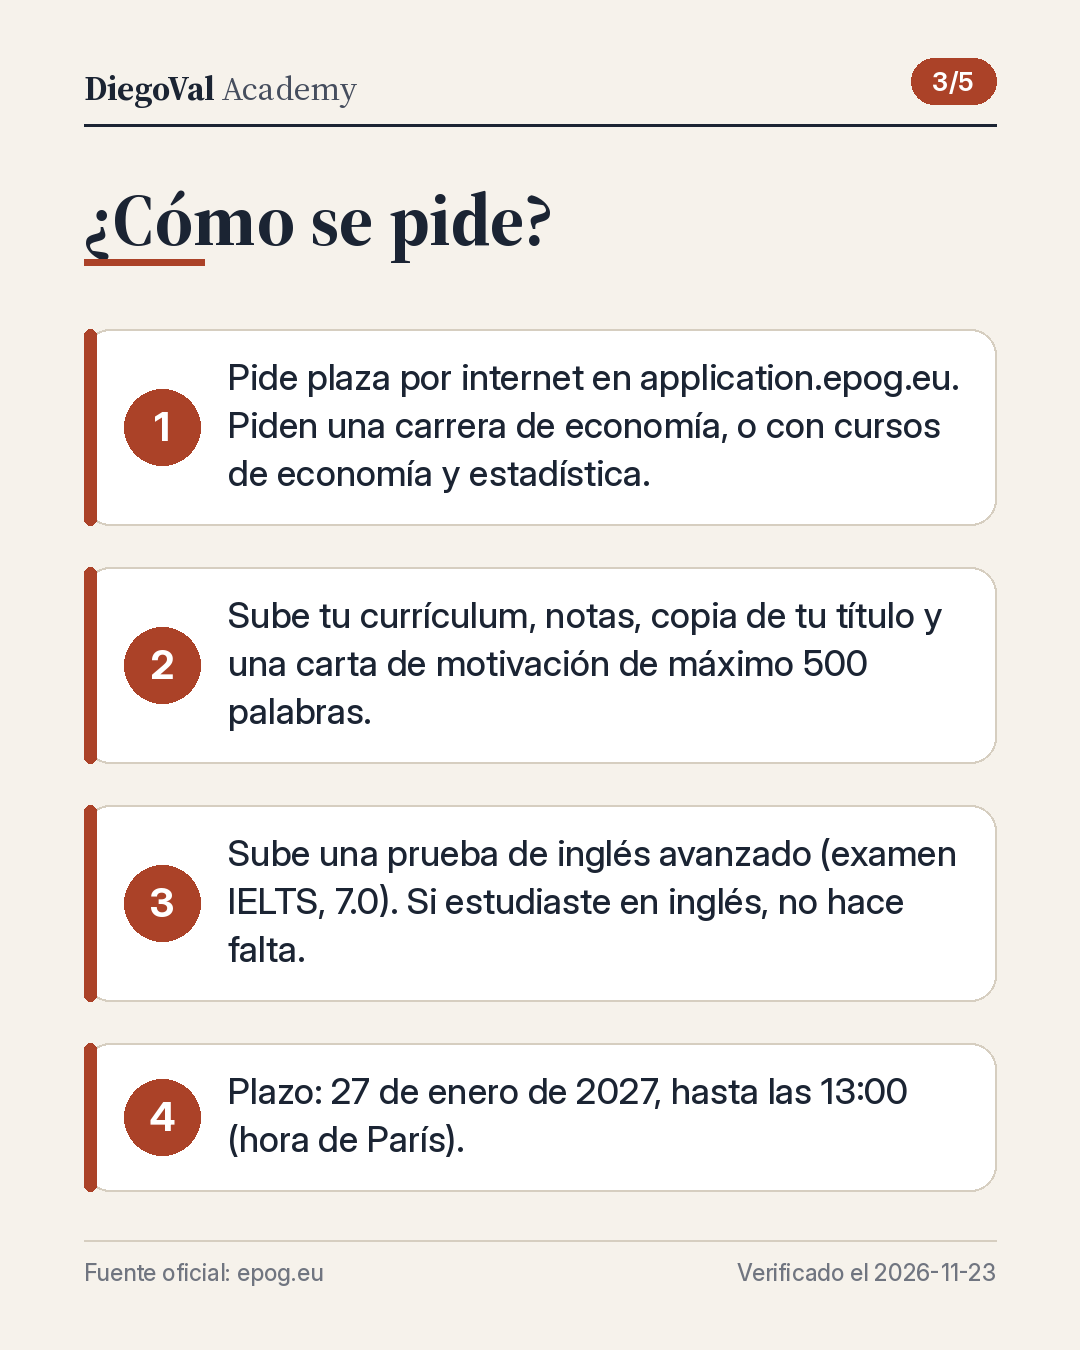
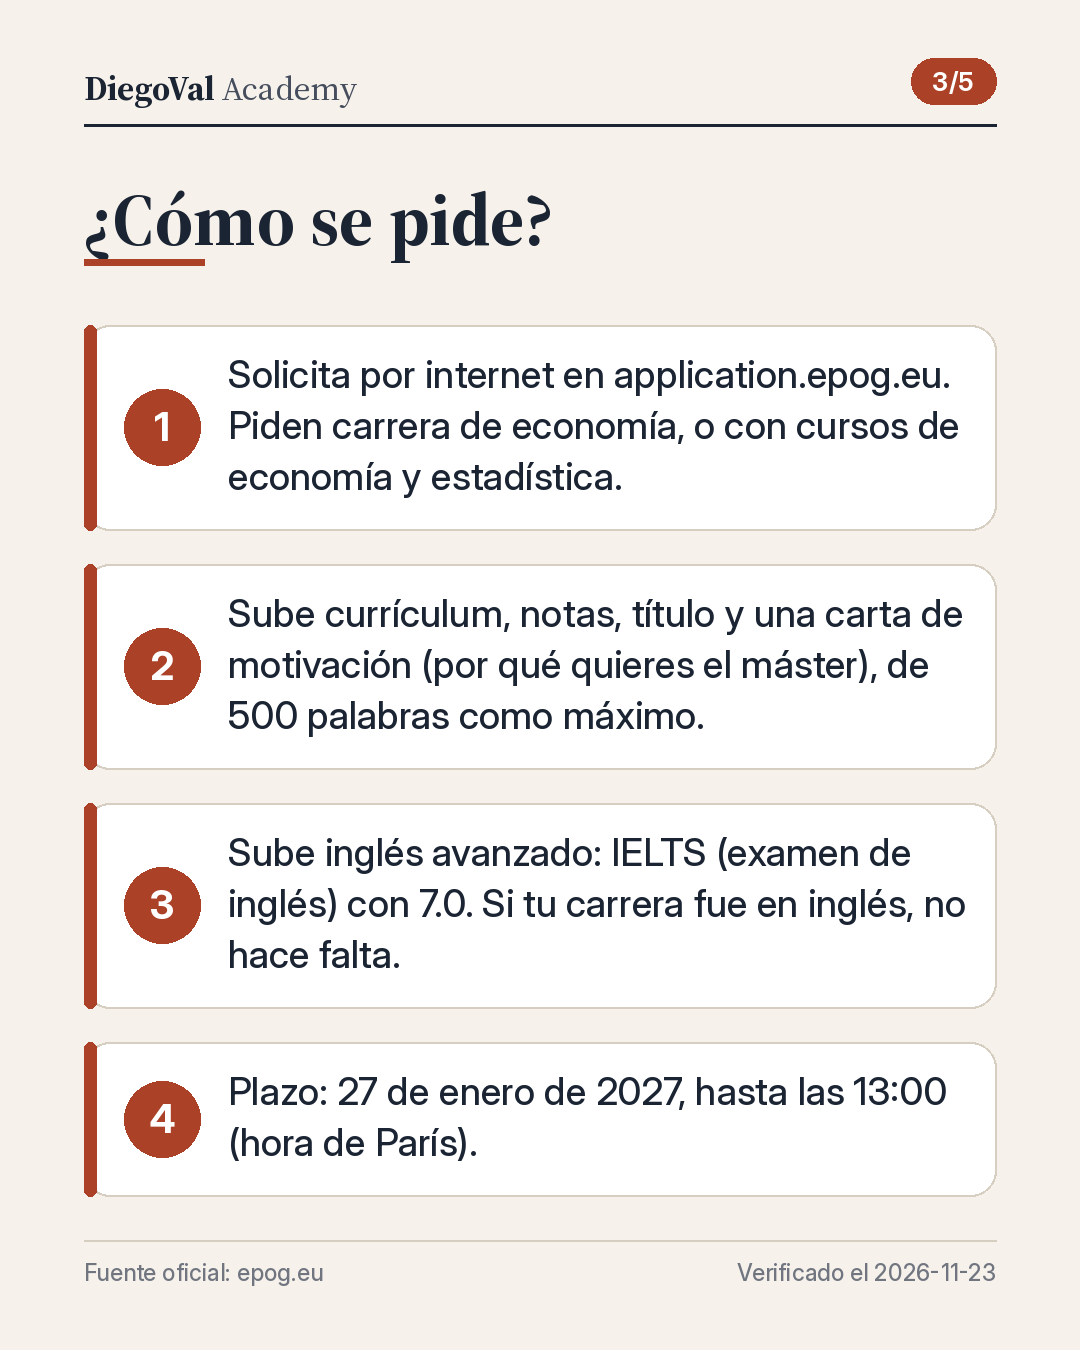
2026-11-23_lunes_beca-epog-economia: preparada
Claude-Session: https://claude.ai/code/session_01HRCw39UzfmQehG21MTaMm1

diff --git a/posts/2026-11-23_lunes_beca-epog-economia/caption.md b/posts/2026-11-23_lunes_beca-epog-economia/caption.md
@@ -1,22 +1,21 @@
-¿Quieres un máster de economía en Europa con beca? 🌍 Hay uno de dos años, abierto ahora.
+¿Quieres un máster de economía en Europa con beca? 🌍 Hay uno de dos años, con plazo abierto.
 
 En corto:
-• Qué es: EPOG, un máster Erasmus Mundus (programa de la Unión Europea para estudiar en varios países) en economía. Lo dan universidades de Francia, Italia, Alemania y otros países.
-• Beca: 1 400 euros al mes durante los dos años, más matrícula y seguro médico. La web no detalla viaje ni visado: pregunta al programa.
-• Quién: carrera de economía, o de otra área con cursos de economía y estadística, e inglés avanzado (por ejemplo, el examen IELTS con 7.0). La web no limita la nacionalidad. No pueden pedir la beca quienes ya tuvieron otra beca de máster Erasmus Mundus.
+• Qué es: se llama EPOG (así se llama el máster). Es un máster Erasmus Mundus (programa de la Unión Europea) de economía. Año 1 en una o dos universidades socias; año 2 en París.
+• Beca: 1 400 euros al mes durante los dos años, y paga la matrícula (lo que cuesta estudiar) y el seguro médico. La web no detalla viaje ni visado: pregunta al programa.
+• Quién: carrera de economía, o con cursos de economía y estadística, y inglés avanzado (por ejemplo, IELTS (examen de inglés) con 7.0). La web no limita la nacionalidad. No pueden pedirla quienes ya tuvieron una beca de máster Erasmus Mundus.
 • Plazo: 27 de enero de 2027, a las 13:00 (hora de París).
 
-Por qué es conocida: lleva la etiqueta Erasmus Mundus, un programa de la Unión Europea, y la Comisión Europea lo presenta como máster conjunto para estudiantes de todo el mundo.
+Por qué es conocida: apoyada por la Unión Europea, con 11 universidades socias.
 
-Lo que pocos explican: piden dos cartas de recomendación de profesores o jefes, y tardan en llegar. Pídelas ya.
+Lo que pocos explican: piden dos cartas de recomendación (un profesor o jefe cuenta cómo eres). Tardan en llegar: pídelas ya.
 
 Cómo empezar:
-1. Lee los requisitos en la web oficial (en inglés).
+1. Lee los requisitos en la web oficial.
 2. Pide las cartas y prepara currículum, notas, título y carta de motivación.
 3. Solicita por internet antes del 27 de enero.
 
 Oficial: https://www.epog.eu/admission-and-scholarships/admission/
-Beca: https://www.epog.eu/admission-and-scholarships/scholarships/
 
 Verificado el: 2026-11-23
 

diff --git a/posts/2026-11-23_lunes_beca-epog-economia/validation.md b/posts/2026-11-23_lunes_beca-epog-economia/validation.md
@@ -1,0 +1,29 @@
+# Validación — 2026-11-23_lunes_beca-epog-economia
+
+Ejecutado: 2026-11-23T07:11:37+01:00
+Decisión: **APROBADA para publicar**
+
+| Estado | Comprobación | Detalle |
+|---|---|---|
+| PASS | Archivos obligatorios | imagen: post.json, post.png, caption.md, sources.md, metadata.json |
+| PASS | Metadatos | campos obligatorios presentes |
+| PASS | Imagen | 1080x1350 PNG, 1 archivo (+5 diapositivas de carrusel, ignoradas) |
+| PASS | Canal Buffer | DiegoVal Academy (6ae0bdf22f1f5ed648eb92f9) |
+| PASS | Verificación del día | 2026-11-23 |
+| PASS | Longitud del texto | 1268/1300 caracteres |
+| PASS | Fecha visible en el texto | Verificado el: 2026-11-23 |
+| PASS | Marcadores pendientes | ninguno |
+| PASS | Enlaces documentados en sources.md | 1 enlaces |
+| PASS | Enlace principal en el texto | https://www.epog.eu/admission-and-scholarships/admission/ |
+| PASS | Lo que pocos explican | presente en imagen y texto |
+| PASS | Sin URLs en la imagen | sólo dominio de la fuente |
+| PASS | Lenguaje sencillo: siglas (texto) | todas explicadas o ninguna |
+| PASS | Lenguaje sencillo: palabras difíciles (texto) | sin burocracia ni calcos detectados |
+| PASS | Lenguaje sencillo: siglas (imagen) | todas explicadas o ninguna |
+| PASS | Lenguaje sencillo: palabras difíciles (imagen) | sin burocracia ni calcos detectados |
+| PASS | Lenguaje sencillo: frases largas | todas ≤ 32 palabras |
+| PASS | Lenguaje sencillo: revisión del verificador | respuesta 'sí' de verificador-convocatorias (subagente Sonnet), 2026-11-23, 2.ª revisión (la 1.ª fue «no»; se corrigieron siglas, términos y respaldo de fuentes) |
+| PASS | Evidencia de popularidad | 2 señales documentadas |
+| PASS | Plazo | 2027-01-27T13:00:00+01:00 (quedan 65 días) |
+| PASS | Duplicados | sin repeticiones en 34 filas de todas las plataformas (URL canónica, topic_key y vídeo; mismo día en otra red permitido) |
+| PASS | Enlace accesible | 200 https://www.epog.eu/admission-and-scholarships/admission/ |

diff --git a/posts/2026-11-23_lunes_beca-epog-economia/validation_instagram.md b/posts/2026-11-23_lunes_beca-epog-economia/validation_instagram.md
@@ -1,0 +1,24 @@
+# Validación Instagram — 2026-11-23_lunes_beca-epog-economia
+
+Ejecutado: 2026-11-23T07:11:37+01:00
+Decisión: **APROBADA para publicar**
+
+| Estado | Comprobación | Detalle |
+|---|---|---|
+| PASS | Archivos obligatorios | 5 imágenes + caption + carousel.json |
+| PASS | Base verificada (LinkedIn) | validation.md APROBADA: mismos datos y fuentes oficiales |
+| PASS | Imágenes 1080×1350 PNG | 5 imágenes correctas |
+| PASS | Imágenes actualizadas | generadas desde el carousel.json actual |
+| PASS | Imágenes sin URL completa | sólo dominios |
+| PASS | Fecha de verificación | 2026-11-23 |
+| PASS | Caption breve | 688 caracteres (máx. 1000) |
+| PASS | Hashtags | 4 (rango 3-8) |
+| PASS | Verificado el | 2026-11-23 |
+| PASS | Lenguaje sencillo: siglas (texto) | todas explicadas o ninguna |
+| PASS | Lenguaje sencillo: palabras difíciles (texto) | sin burocracia ni calcos detectados |
+| PASS | Lenguaje sencillo: siglas (imagen) | todas explicadas o ninguna |
+| PASS | Lenguaje sencillo: palabras difíciles (imagen) | sin burocracia ni calcos detectados |
+| PASS | Lenguaje sencillo: frases largas | todas ≤ 32 palabras |
+| PASS | Lenguaje sencillo: revisión del verificador | respuesta 'sí' de verificador-convocatorias (subagente Sonnet), 2026-11-23, 2.ª revisión (la 1.ª fue «no»; se corrigieron siglas, términos y respaldo de fuentes) |
+| PASS | Duplicados (Instagram) | sin repeticiones en ninguna plataforma (mismo día en LinkedIn permitido) |
+| PASS | Verificación de hoy | 2026-11-23 |

diff --git a/posts/2026-11-23_lunes_beca-epog-economia/caption_instagram.md b/posts/2026-11-23_lunes_beca-epog-economia/caption_instagram.md
@@ -1,14 +1,14 @@
 ¿Quieres un máster de economía en Europa con beca? 🌍
 
-Hay uno de 2 años, abierto ahora. Se llama EPOG y es un máster Erasmus Mundus (programa de la Unión Europea donde estudias en varios países).
+Hay uno de 2 años, con plazo abierto. Se llama EPOG (así se llama el máster) y es un máster Erasmus Mundus (programa de la Unión Europea).
 
-✅ La beca da 1 400 euros al mes, más matrícula y seguro médico
-✅ Piden carrera de economía (o con cursos de economía) e inglés avanzado (examen IELTS, 7.0)
+✅ La beca da 1 400 euros al mes, y paga la matrícula (lo que cuesta estudiar) y el seguro médico
+✅ Piden carrera de economía (o con cursos de economía) y examen de inglés avanzado
 ✅ Plazo: 27 de enero de 2027, hasta las 13:00 (hora de París)
 
-Piden dos cartas de recomendación: pídelas ya.
+Piden dos cartas de recomendación (un profesor o jefe cuenta cómo eres). Pídelas ya.
 
-Esta semana: pide tus cartas y mira si tienes prueba de inglés. Web oficial, en inglés: epog.eu
+Esta semana: pide tus cartas y mira si tienes examen de inglés. Web oficial, en inglés: epog.eu
 
 Verificado el: 2026-11-23
 
